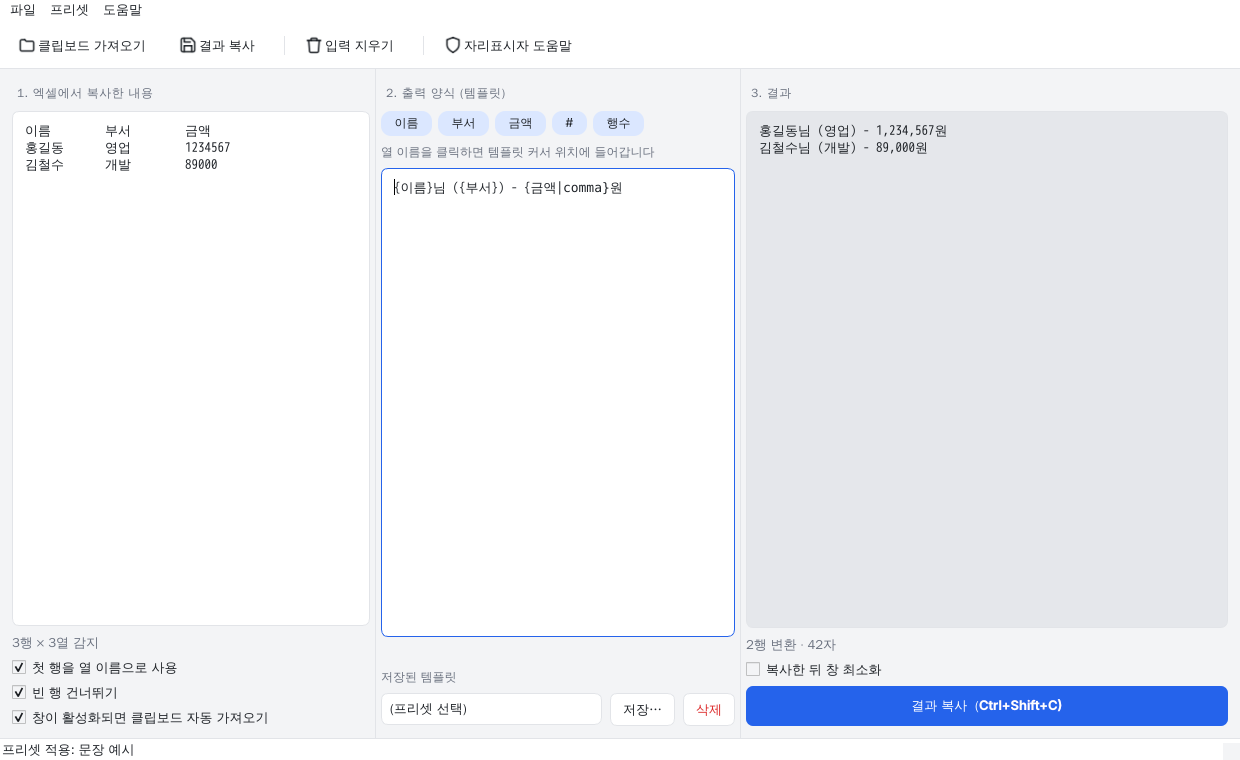
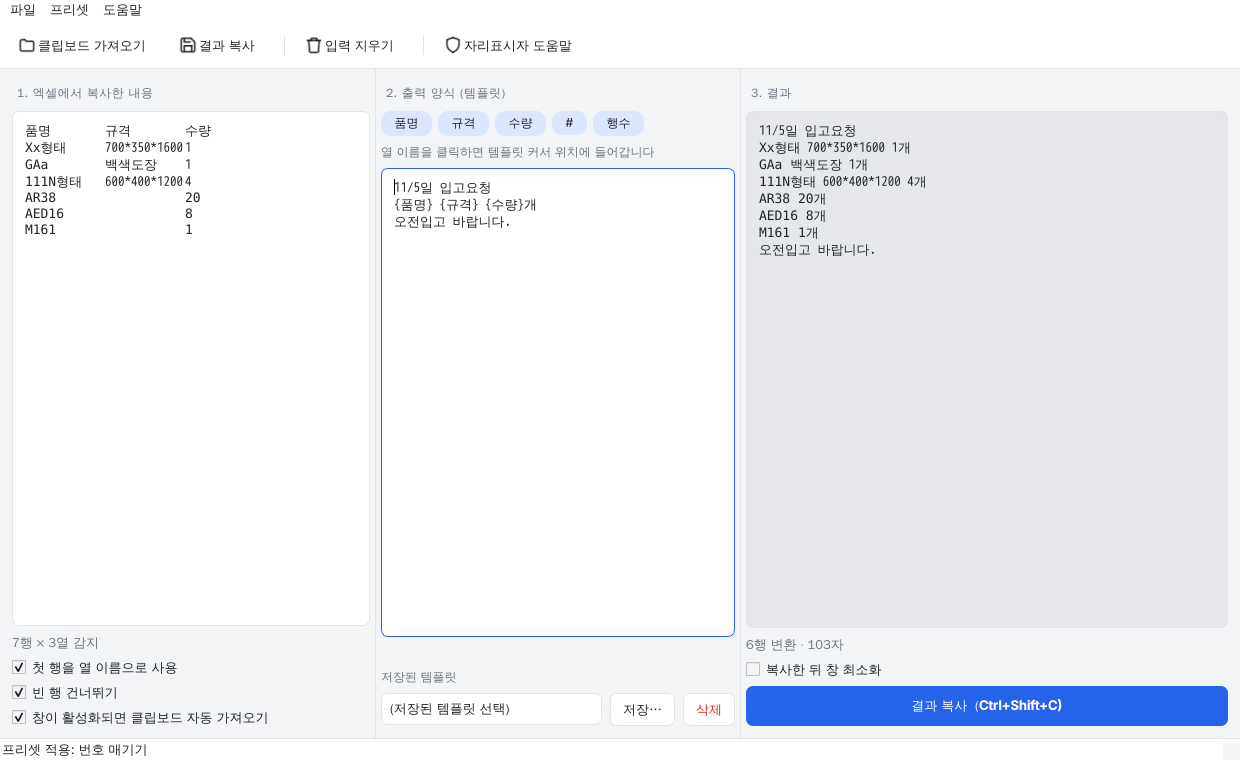
Excel Paster: 머리말·꼬리말이 있는 템플릿 지원
{ } 가 든 줄만 행마다 반복되고 그 앞뒤 줄은 한 번만 나오도록 하여
"11/5일 입고요청 / {품명} {규격} {수량}개 / 오전입고 바랍니다." 같은
양식을 템플릿에 그대로 적을 수 있게 함.

- 빈 셀은 옆 공백 하나와 함께 사라져 공백이 겹치지 않음 (AR38 20개)
- {오늘} 자리표시자 (11/5 형식). 날짜·행수만 있는 줄은 반복하지 않음
- 꼬리말 없이 끝에 둔 빈 줄은 행 사이 간격, 꼬리말이 있으면 꼬리말 앞 간격
- 기본 프리셋에 입고요청 예시 추가, 도움말·README·스크린샷 갱신

Claude-Session: https://claude.ai/code/session_01BsTnYST2jFKeuSFEv2JFZG

diff --git a/excelpaster/core.py b/excelpaster/core.py
@@ -7,6 +7,7 @@ import io
 import json
 import re
 from dataclasses import asdict, dataclass, replace
+from datetime import date
 
 Table = list[list[str]]
 
@@ -14,6 +15,7 @@ Table = list[list[str]]
 ROW_NUMBER_KEYS = ("#", "행번호", "n", "row")
 ROW_COUNT_KEYS = ("행수", "rows", "count")
 COL_COUNT_KEYS = ("열수", "cols")
+TODAY_KEYS = ("오늘", "today")
 
 
 @dataclass
@@ -149,7 +151,7 @@ def unknown_placeholders(template: str, headers: list[str]) -> list[str]:
 
 def _is_special(name: str) -> bool:
     k = name.lower()
-    return k in ROW_NUMBER_KEYS or k in ROW_COUNT_KEYS or k in COL_COUNT_KEYS
+    return k in ROW_NUMBER_KEYS or k in ROW_COUNT_KEYS or k in COL_COUNT_KEYS or k in TODAY_KEYS
 
 
 def _build_lookup(headers: list[str]) -> dict[str, int]:
@@ -221,13 +223,23 @@ def _apply_filter(value: str, spec: str) -> str:
     raise TemplateError(f"알 수 없는 필터: {name}")
 
 
+def _today() -> str:
+    d = date.today()
+    return f"{d.month}/{d.day}"
+
+
 def render_template(template: str, headers: list[str], row: list[str],
                     row_number: int, row_count: int) -> str:
+    """자리표시자를 채운다. 값이 빈 셀이면 양옆 공백 중 하나를 같이 지워 공백이 겹치지 않게 한다."""
     lookup = _build_lookup(headers)
     width = len(headers)
     out: list[str] = []
+    eat_space = False  # 직전 자리표시자가 빈 값이었고 앞쪽 공백을 못 지운 경우 → 다음 글의 앞 공백 하나 제거
     for is_field, inner in _scan(template):
         if not is_field:
+            if eat_space and inner.startswith(" "):
+                inner = inner[1:]
+            eat_space = False
             out.append(inner)
             continue
         parts = inner.split("|")
@@ -241,37 +253,84 @@ def render_template(template: str, headers: list[str], row: list[str],
             value = str(row_count)
         elif name.lower() in COL_COUNT_KEYS:
             value = str(width)
+        elif name.lower() in TODAY_KEYS:
+            value = _today()
         else:
+            eat_space = False
             out.append("{" + inner + "}")  # 모르는 이름은 그대로 둠 (타이핑 중 깨지지 않도록)
             continue
         for f in parts[1:]:
             if f.strip():
                 value = _apply_filter(value, f)
+        if value == "":
+            prev = out[-1] if out else ""
+            so_far = "".join(out).rstrip(" ")
+            at_line_start = so_far == "" or so_far.endswith("\n")
+            if not at_line_start and prev.endswith(" "):
+                out[-1] = prev[:-1]   # 앞 공백 하나 제거
+            else:
+                eat_space = True      # 줄 머리(들여쓰기)는 두고 뒤 공백 하나 제거
+            continue
+        eat_space = False
         out.append(value)
     return "".join(out)
+
+
+def _is_row_line(line: str) -> bool:
+    """셀 값이나 행 번호를 참조하는 줄인가. {오늘} {행수} 처럼 행과 무관한 것만 있으면 머리말/꼬리말."""
+    global_keys = TODAY_KEYS + ROW_COUNT_KEYS + COL_COUNT_KEYS
+    return any(name.lower() not in global_keys for name in placeholders(line))
+
+
+def split_template(template: str) -> tuple[str, str, str]:
+    """템플릿을 (머리말, 행마다 반복할 부분, 꼬리말) 로 나눈다.
+
+    자리표시자가 든 첫 줄부터 마지막 줄까지가 반복 부분이고, 그 앞뒤 줄은 한 번만 나온다.
+    자리표시자가 한 줄도 없으면 전체가 반복 부분이다. 꼬리말이 없을 때 끝의 빈 줄은 반복 부분에
+    들어가 행 사이를 띄우고, 꼬리말이 있으면 그 빈 줄은 꼬리말 앞의 간격이 된다.
+    """
+    lines = template.replace("\r\n", "\n").split("\n")
+    marked = [i for i, ln in enumerate(lines) if _is_row_line(ln)]
+    if not marked:
+        return "", template, ""
+    first, last = marked[0], marked[-1]
+    if not any(ln.strip() for ln in lines[last + 1:]):
+        last = len(lines) - 1  # 꼬리말이 없으면 끝의 빈 줄은 반복 부분에 포함 (행 사이 띄우기)
+    head = "\n".join(lines[:first])
+    body = "\n".join(lines[first:last + 1])
+    tail = "\n".join(lines[last + 1:])
+    return head, body, tail
 
 
 # ---------------------------------------------------------------- 렌더링
 
 def render(table: Table, spec: FormatSpec) -> str:
-    """템플릿을 행마다 적용해 줄바꿈으로 이어 붙인 텍스트. 템플릿 오류는 TemplateError.
+    """템플릿을 표에 적용한 텍스트. 템플릿 오류는 TemplateError.
 
-    템플릿이 여러 줄이면 그 여러 줄이 행마다 반복된다. 템플릿 끝에 빈 줄을 두면 행 사이가 한 줄 띄어진다.
+    { } 가 든 줄들은 행마다 반복되어 줄바꿈으로 이어지고, 그 앞뒤 줄(머리말·꼬리말)은 한 번만 나온다.
     """
     headers, data = split_table(table, spec.header_row, spec.skip_blank_rows)
     if not headers:
         return ""
     n = len(data)
-    template = spec.template.replace("\r\n", "\n")
-    return "\n".join(render_template(template, headers, r, i + 1, n) for i, r in enumerate(data))
+    head, body, tail = split_template(spec.template)
+    meta = [""] * len(headers)
+    parts = []
+    if head:
+        parts.append(render_template(head, headers, meta, 0, n))
+    parts.extend(render_template(body, headers, r, i + 1, n) for i, r in enumerate(data))
+    if tail:
+        parts.append(render_template(tail, headers, meta, 0, n))
+    return "\n".join(parts)
 
 
 # ---------------------------------------------------------------- 프리셋
 
 BUILTIN_PRESETS: list[FormatSpec] = [
+    FormatSpec(name="입고요청 예시 (머리말·꼬리말)",
+               template="{오늘}일 입고요청\n{1} {2} {3}개\n오전입고 바랍니다."),
     FormatSpec(name="열을 쉼표로 이어서 한 줄씩", template="{1}, {2}, {3}"),
     FormatSpec(name="번호 매기기", template="{#}. {1}"),
-    FormatSpec(name="문장 예시", template="{1}님 ({2}) - {3|comma}원"),
 ]
 
 PRESETS_VERSION = 1
@@ -298,13 +357,19 @@ def load_presets(text: str) -> list[FormatSpec]:
 
 
 HELP_TEXT = """\
-템플릿에 적은 글이 엑셀의 한 행마다 반복되고, 행 사이는 줄바꿈으로 이어집니다.
-템플릿을 여러 줄로 쓰면 그 여러 줄이 행마다 반복됩니다. 끝에 빈 줄을 두면 행 사이가 띄어집니다.
+{ } 가 들어 있는 줄은 엑셀의 한 행마다 반복되고, 그 앞뒤 줄은 한 번만 나옵니다.
+
+  11/5일 입고요청          ← 머리말 (한 번)
+  {품명} {규격} {수량}개    ← 행마다 반복
+  오전입고 바랍니다.        ← 꼬리말 (한 번)
+
+반복 줄이 여러 줄이어도 되고, 끝에 빈 줄을 두면 행 사이가 띄어집니다.
+빈 셀은 옆의 공백 하나와 함께 사라져 공백이 두 번 생기지 않습니다.
 
 자리표시자
-  {열이름}      첫 행의 열 이름으로 참조 (예: {이름}, {부서})
+  {열이름}      첫 행의 열 이름으로 참조 (예: {품명}, {수량})
   {1} {2} …    열 번호로 참조 (헤더가 없어도 사용 가능)
-  {#}          행 번호 (1부터),   {행수} 전체 행 수
+  {#}          행 번호 (1부터),   {행수} 전체 행 수,   {오늘} 오늘 날짜 (11/5 형식)
   {{  }}        중괄호를 글자 그대로 넣을 때
 
 필터 (| 로 이어서, 여러 개 가능)

diff --git a/tests/test_paster.py b/tests/test_paster.py
@@ -1,3 +1,5 @@
+from datetime import date
+
 from excelpaster.core import (
     FormatSpec,
     column_names,
@@ -6,8 +8,20 @@ from excelpaster.core import (
     parse_table,
     render,
     render_template,
+    split_template,
     unknown_placeholders,
 )
+
+ORDER = ("품명\t규격\t수량\r\nXx형태\t700*350*1600\t1\r\nGAa\t백색도장\t1\r\n111N형태\t600*400*1200\t4\r\n"
+         "AR38\t\t20\r\nAED16\t\t8\r\nM161\t\t1\r\n")
+ORDER_EXPECTED = """11/5일 입고요청
+Xx형태 700*350*1600 1개
+GAa 백색도장 1개
+111N형태 600*400*1200 4개
+AR38 20개
+AED16 8개
+M161 1개
+오전입고 바랍니다."""
 
 EXCEL = "이름\t부서\t금액\r\n홍길동\t영업\t1234567\r\n김철수\t개발\t89000\r\n"
 
@@ -43,6 +57,40 @@ def test_template_without_header_row():
     assert render(t, spec) == "홍길동-영업\n김철수-개발"
     assert column_names(t, False) == ["1", "2"]
     assert column_names(parse_table(EXCEL), True) == ["이름", "부서", "금액"]
+
+
+def test_head_body_tail_template():
+    spec = FormatSpec(template="11/5일 입고요청\n{품명} {규격} {수량}개\n오전입고 바랍니다.")
+    assert render(parse_table(ORDER), spec) == ORDER_EXPECTED
+    # 헤더 없이 번호로, 꼬리말 앞 빈 줄 유지
+    body = ORDER.split("\r\n", 1)[1]
+    spec = FormatSpec(template="11/5일 입고요청\n{1} {2} {3}개\n\n오전입고 바랍니다.", header_row=False)
+    assert render(parse_table(body), spec) == ORDER_EXPECTED.replace("\n오전", "\n\n오전")
+
+
+def test_split_template():
+    assert split_template("머리\n{1}\n{2}\n꼬리") == ("머리", "{1}\n{2}", "꼬리")
+    assert split_template("{1}") == ("", "{1}", "")
+    assert split_template("{1}\n") == ("", "{1}\n", "")          # 꼬리말 없음 → 빈 줄은 반복 부분
+    assert split_template("{1}\n\n꼬리") == ("", "{1}", "\n꼬리")  # 꼬리말 있음 → 빈 줄은 꼬리말 앞 간격
+    assert split_template("머리만") == ("", "머리만", "")
+    # {오늘} {행수} 만 있는 줄은 머리말/꼬리말, 반복 줄 사이의 일반 줄은 반복 부분에 포함
+    assert split_template("{오늘}일 요청\n{1}\n---\n{2}\n총 {행수}건") == ("{오늘}일 요청", "{1}\n---\n{2}", "총 {행수}건")
+
+
+def test_today_placeholder():
+    d = date.today()
+    assert render_template("{오늘}", ["a"], ["x"], 1, 1) == f"{d.month}/{d.day}"
+
+
+def test_empty_cell_collapses_one_adjacent_space():
+    h = ["a", "b", "c"]
+    assert render_template("{a} {b} {c}개", h, ["AR38", "", "20"], 1, 1) == "AR38 20개"
+    assert render_template("{a} {b}", h, ["AR38", "", ""], 1, 1) == "AR38"
+    assert render_template("{b} {a}", h, ["AR38", "", ""], 1, 1) == "AR38"
+    assert render_template("[{b}] {a}", h, ["AR38", "", ""], 1, 1) == "[] AR38"
+    assert render_template("{a}  {b}  {c}", h, ["x", "", "z"], 1, 1) == "x   z"  # 공백 하나만 제거
+    assert render_template("  {b} {a}", h, ["AR38", "", ""], 1, 1) == "  AR38"  # 들여쓰기는 유지
 
 
 def test_multiline_template_repeats_per_row():

diff --git a/excelpaster/gui.py b/excelpaster/gui.py
@@ -267,9 +267,12 @@ class MainWindow(QMainWindow):
         self.template = QPlainTextEdit()
         self.template.setFont(self._mono())
         self.template.setPlaceholderText(
-            "원하는 양식을 글로 적으세요. 엑셀의 한 행마다 이 글이 반복됩니다.\n\n"
-            "예)  {이름}님 ({부서}) - {금액|comma}원\n"
-            "예)  {1}, {2}, {3}\n\n"
+            "원하는 양식을 그대로 적으세요. { } 가 든 줄만 엑셀 행마다 반복되고\n"
+            "나머지 줄은 한 번만 나옵니다.\n\n"
+            "예)\n"
+            "11/5일 입고요청\n"
+            "{품명} {규격} {수량}개\n"
+            "오전입고 바랍니다.\n\n"
             "{열이름} 또는 {1} {2} 로 셀 값을 넣습니다. 자세한 것은 F1.")
         self.template.textChanged.connect(self._on_spec_changed)
         self.template_warn = QLabel("")

diff --git a/README.md b/README.md
@@ -83,24 +83,40 @@ python paster_main.py            # Excel Paster
 
 ## 템플릿
 
-템플릿에 적은 글이 **엑셀의 한 행마다 반복**되고, 행 사이는 줄바꿈으로 이어집니다.
-셀 값은 `{열이름}` (첫 행을 열 이름으로 쓸 때) 또는 `{1}` `{2}` (열 번호) 로 넣습니다. 열 이름 칩을 클릭해도 들어갑니다.
+원하는 결과를 그대로 적되, 셀 값이 들어갈 자리에 `{열이름}` (첫 행을 열 이름으로 쓸 때) 또는 `{1}` `{2}` (열 번호) 를 씁니다.
+**`{ }` 가 든 줄만 엑셀의 한 행마다 반복**되고, 그 앞뒤 줄은 한 번만 나옵니다. 열 이름 칩을 클릭해도 들어갑니다.
 
-예) 템플릿 `{이름}님 ({부서}) - {금액|comma}원`
+예) 엑셀에 품명·규격·수량 열이 있을 때, 템플릿을
 
 ```
-홍길동님 (영업) - 1,234,567원
-김철수님 (개발) - 89,000원
+11/5일 입고요청
+{품명} {규격} {수량}개
+오전입고 바랍니다.
 ```
 
-템플릿을 여러 줄로 쓰면 그 여러 줄이 행마다 반복됩니다. 끝에 빈 줄을 두면 행 사이가 한 줄 띄어집니다.
+라고 적으면 결과는
+
+```
+11/5일 입고요청
+Xx형태 700*350*1600 1개
+GAa 백색도장 1개
+111N형태 600*400*1200 4개
+AR38 20개
+AED16 8개
+M161 1개
+오전입고 바랍니다.
+```
+
+규격이 빈 행(`AR38`)은 옆의 공백 하나가 같이 사라져 `AR38  20개` 처럼 공백이 겹치지 않습니다.
+반복 줄이 여러 줄이어도 되고, 꼬리말 앞에 빈 줄을 두면 그 간격이 유지됩니다. 꼬리말 없이 끝에 빈 줄을 두면 행 사이가 띄어집니다.
 
 | 쓰기 | 뜻 |
 | --- | --- |
-| `{이름}` `{부서}` | 첫 행의 열 이름으로 참조 |
+| `{품명}` `{수량}` | 첫 행의 열 이름으로 참조 |
 | `{1}` `{2}` … | 열 번호로 참조 (헤더가 없어도 됨) |
 | `{#}` | 행 번호 (1부터) |
-| `{행수}` | 전체 행 수 |
+| `{행수}` | 전체 행 수 (머리말·꼬리말에서도 사용 가능) |
+| `{오늘}` | 오늘 날짜, `11/5` 형식 |
 | `{{` `}}` | 중괄호 글자 그대로 |
 
 필요하면 `|` 뒤에 필터를 붙일 수 있습니다 (여러 개 연달아 가능).
